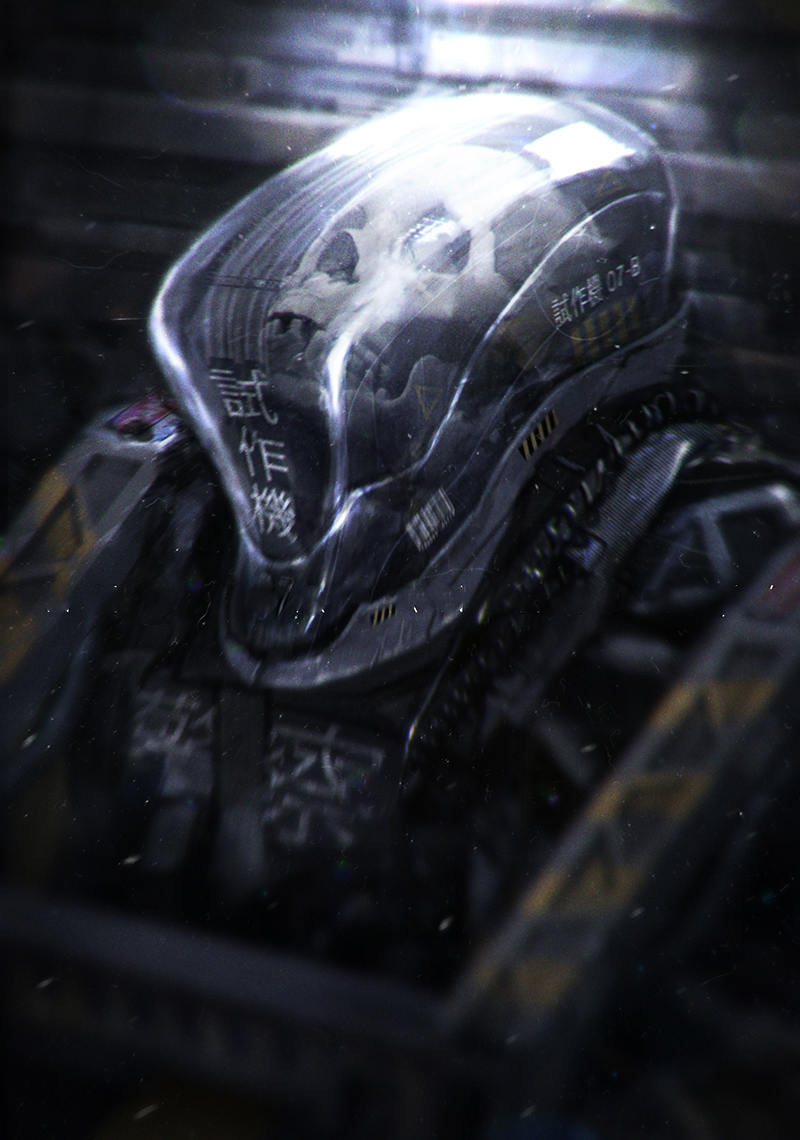
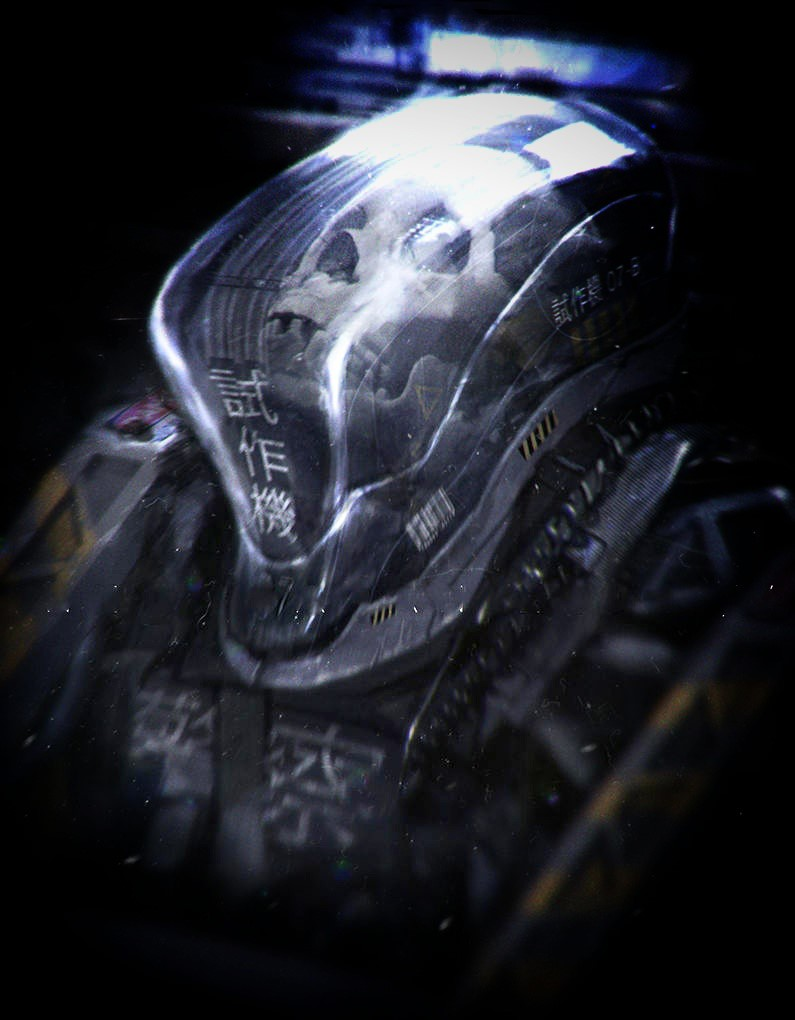
master

diff --git a/assets/css/main.scss b/assets/css/main.scss
@@ -110,17 +110,20 @@ h6 {
   color: #828282;
   margin: 0;}
 
-.intro {
-  display: none;
+.intro-img {
   background: url(/assets/img/end.jpg);
   background-repeat: no-repeat;
-  background-size: cover;
+  background-size: contain;
   background-position: center;
-  padding: 10px;
-  color: whitesmoke;
-  font-family: 'Roboto','NotoSerifSC';
-  text-shadow: 2px 2px 3px black;
-  font-size: small;
+  margin: 25px auto 0;
+  width: 250px;
+  height: 250px;
+  z-index: -1;
+  filter: invert(1);
+}
+.intro-img p {
+  color: white;
+  background-color: #005dcc;
 }
 
 // toc

diff --git a/index.md b/index.md
@@ -5,16 +5,12 @@ layout: default
 This sentence is hidden.
 
 {:.ruby}
-    UPDATING 2020-12-24 [Metal] 🌌
+    UPDATING 2020 [Metal] 🌌
 
 >This site is used to organize and record notes  
 >For **learning purposes** and **personal use only**
 
-<div class="intro" >
-    <p>我以前和你一样也是个冒险家，直到我的膝盖中了一箭。<br>
-    I used to be an adventurer like you, until I got an arrow in the knee.</p>
-    <p>— The Elder Scrolls V: Skyrim</p>
-</div>
+<div class="intro-img"><p>NEO JAPAN 2202 © Johnson Ting</p></div>
 
 <ul class = "main-list">
     {% for post in site.categories.X reversed %}
